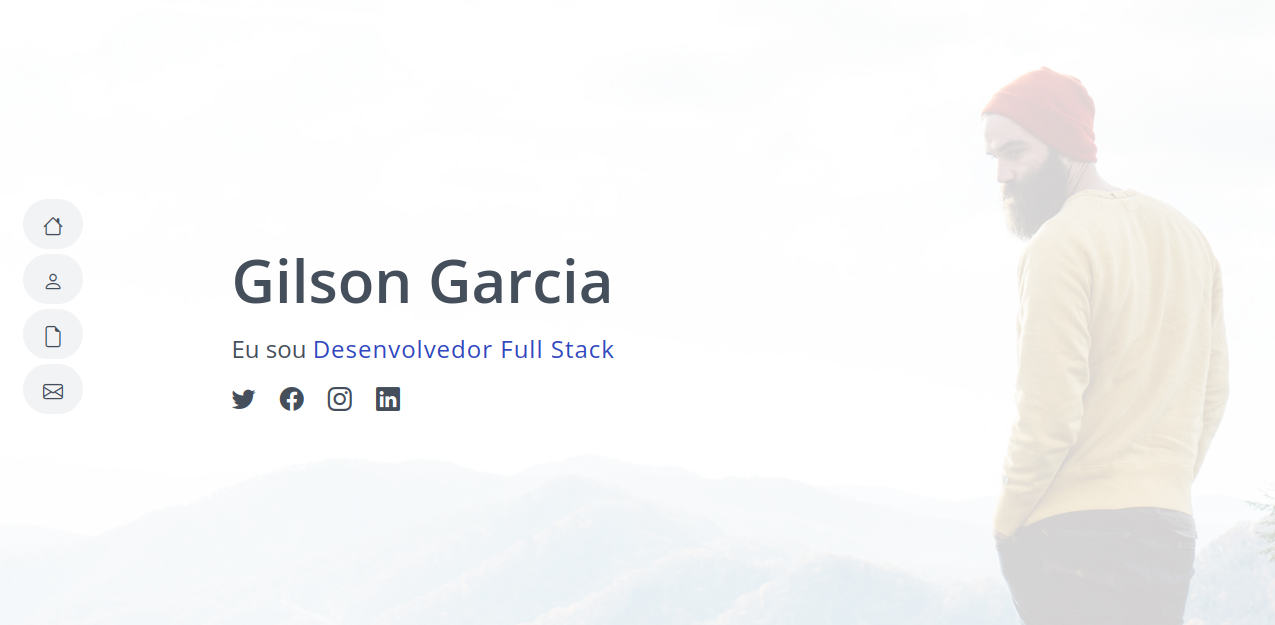
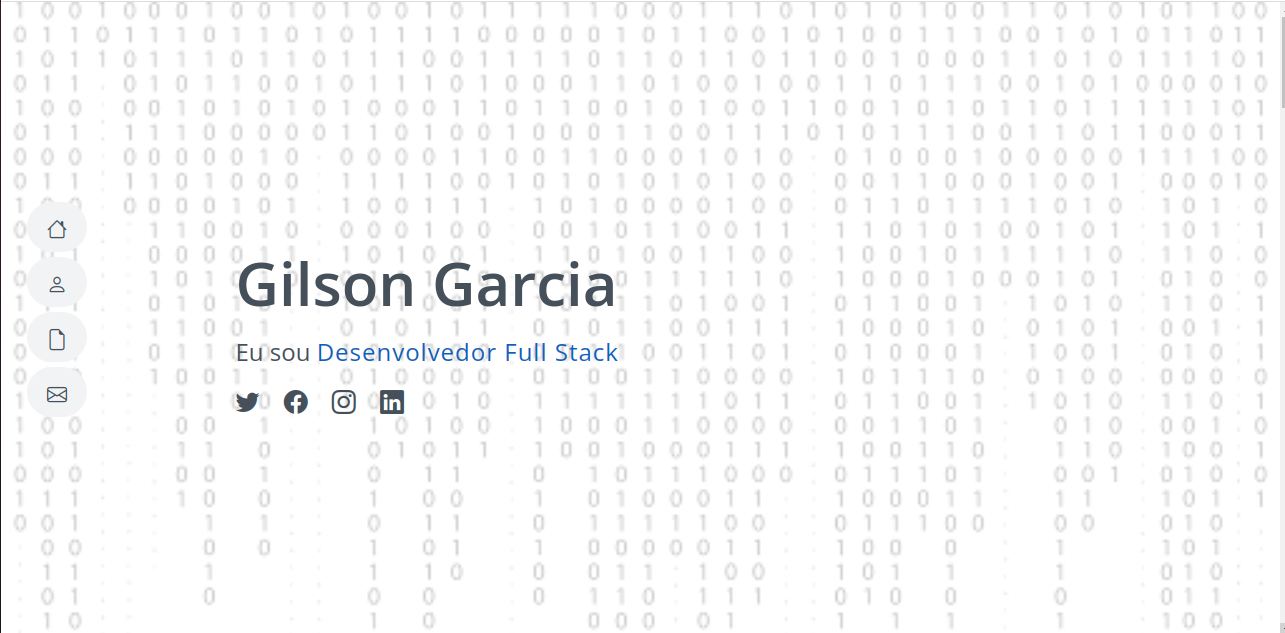
ajustes-finais

diff --git a/assets/css/style.css b/assets/css/style.css
@@ -100,7 +100,7 @@ a:hover {
 }
 
 #home {
-    background: url("../img/home.jpg") top right no-repeat;
+    background: url("../img/img.jpg") top right no-repeat;
     width: 100%;
     height: 100vh;
     background-size: cover;

diff --git a/README.md b/README.md
@@ -31,7 +31,6 @@ Gilson Garcia
 - Primeiramente, obtive sucesso com o cliente, um bom retorno das informações necessárias para a implementação do produto. 
 - Relembrei meus conhecimentos das tecnologias HTML, CSS e JQuery.
 - Primeiro contato com o GitHub IO.
-- Dificuldade com "encaixe" das informações.
-
+- Dificuldade com "encaixe" das informações e alguns erros ao dar commit no site.
 
 Acesso: https://elc1090.github.io/project1-gsquevedo/
